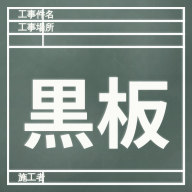
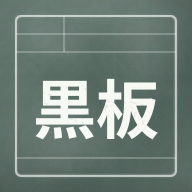
Add files via upload

diff --git a/index.html b/index.html
@@ -557,8 +557,8 @@
   const $ = id => document.getElementById(id);
   document.documentElement.dataset.theme=(localStorage.getItem('photoLedgerTheme')||'light');
   // ▼ アプリを更新したら、この2行を書き替えてください
-  const APP_VERSION='2026.08.14f';
-  const APP_UPDATE_NOTE='表紙の種類（標準・シンプル）を選べるように／作成年月日が勝手に入る問題を修正';
+  const APP_VERSION='2026.08.14g';
+  const APP_UPDATE_NOTE='アプリアイコンを作り直し／シンプル表紙の文字と線の間隔を調整';
   const DB_NAME = 'nich_kouji_photo_ledger';
   const DB_VERSION = 2;
   let db;
@@ -722,8 +722,8 @@
     if(ceVal('projectCoverType')==='simple'){
       host.innerHTML=`
         <div class="ce-title" style="margin-bottom:34mm">工 事 写 真 帳</div>
-        <div class="ce-row" style="justify-content:center"><span class="ce-line" style="flex:0 1 86%;justify-content:center">${f('name',ceVal('projectName'),'工事名を入力','wide')}</span></div>
-        <div class="ce-row" style="margin-top:30px"><span class="ce-lbl">工事施工者</span><span class="ce-line">${f('company',ceVal('projectCompany'),'会社名を入力','wide')}</span></div>`;
+        <div class="ce-row" style="justify-content:center"><span class="ce-line" style="flex:0 1 86%;justify-content:center;padding-bottom:7px">${f('name',ceVal('projectName'),'工事名を入力','wide')}</span></div>
+        <div class="ce-row" style="margin-top:30px"><span class="ce-lbl">工事施工者</span><span class="ce-line" style="padding-bottom:7px">${f('company',ceVal('projectCompany'),'会社名を入力','wide')}</span></div>`;
       return;
     }
     host.innerHTML=`
@@ -1120,9 +1120,9 @@
         html+=`<section class="sheet cover-sheet">
           <div class="cover-title" style="margin-bottom:46mm">工 事 写 真 帳</div>
           <table class="cover-form">
-            <tr><td class="val" style="font-size:16pt;padding-bottom:0">${escapeHtml(p.name||'')}</td></tr>
+            <tr><td class="val" style="font-size:16pt;padding-bottom:3.5mm">${escapeHtml(p.name||'')}</td></tr>
             <tr><td style="padding:0;height:34mm"></td></tr>
-            <tr><td class="val" style="padding-bottom:0">${escapeHtml(p.company||'')}</td></tr>
+            <tr><td class="val" style="padding-bottom:3.5mm">${escapeHtml(p.company||'')}</td></tr>
           </table>
         </section>`;
       }else{
